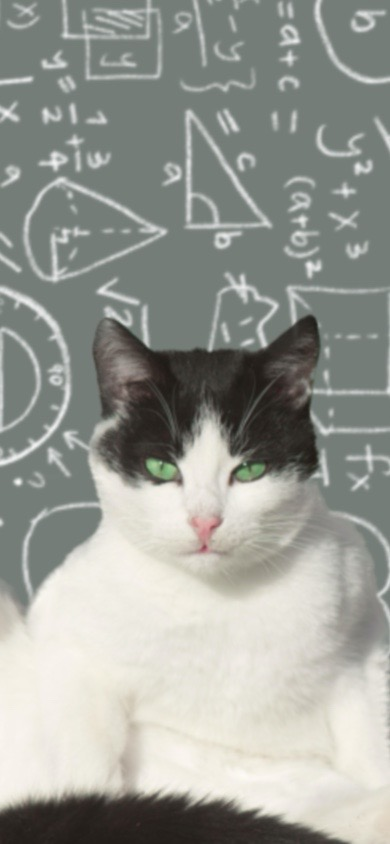
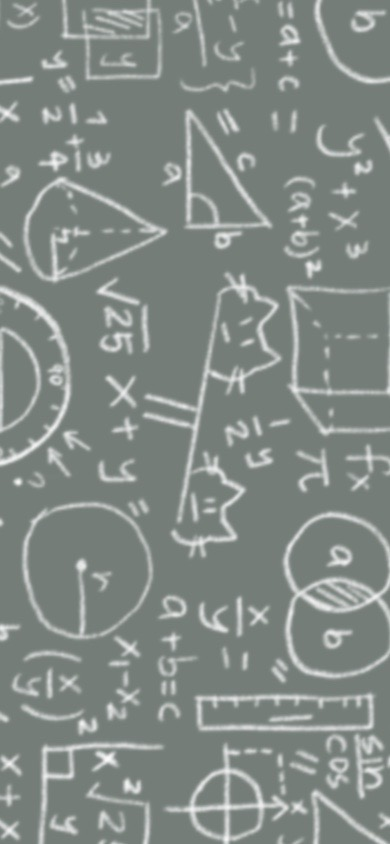
loading貓圖分離

diff --git a/loadingpage.css b/loadingpage.css
@@ -151,11 +151,20 @@
     margin-left: -2px;
     border-radius: 5px;
 }
+.loadingcat{
+    width: auto;
+    height: 60vh;
+    position: fixed;
+    left: 50%;
+    right: 50%;
+    bottom: 0;
+    transform: translate(-50%, 0);
+}
 .loading{
     position: absolute;
     top: 50%;
     left: 50%;
-    transform: translate(-30px, -50px);
+    transform: translate(-50%, -70%);
 }
 .loadingwrapper{
     width: 100%;
@@ -178,9 +187,7 @@
     height: 100%;
     position: absolute;
 }
-/*
- * Animation
- */
+
 @-webkit-keyframes line-spin-clockwise-fade {
     50% {
         opacity: .2;
@@ -224,7 +231,7 @@
     }
 }
 
-@media screen and (max-width: 767px){
+@media screen and (max-width: 1023px){
     .loadingpage{
         background-image: url(pictures/loadingpagemobile.jpg);
         background-position: center;
